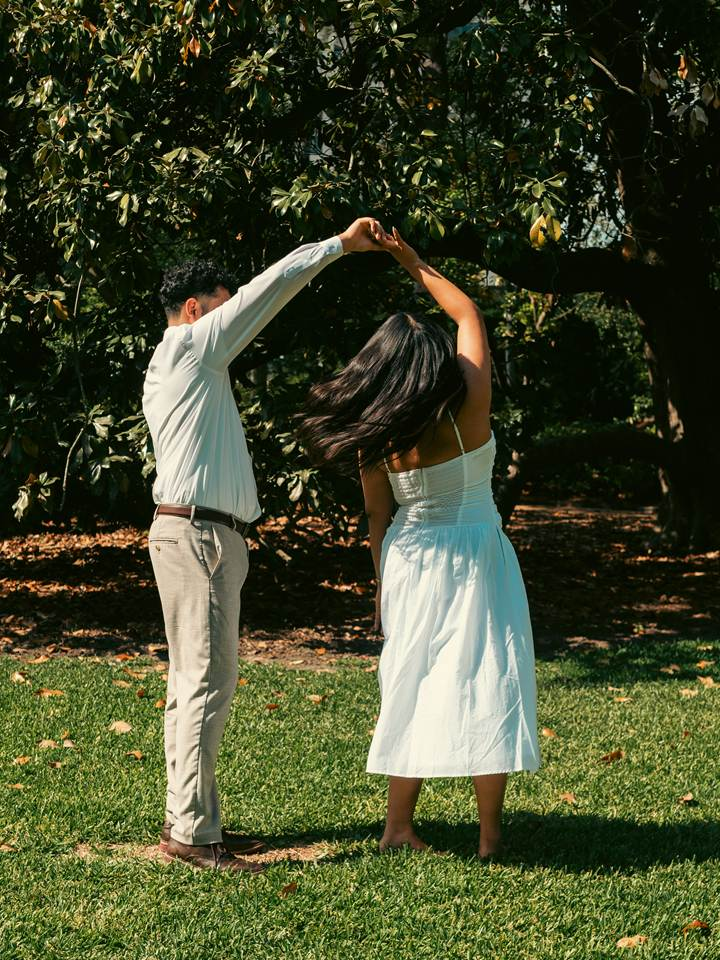
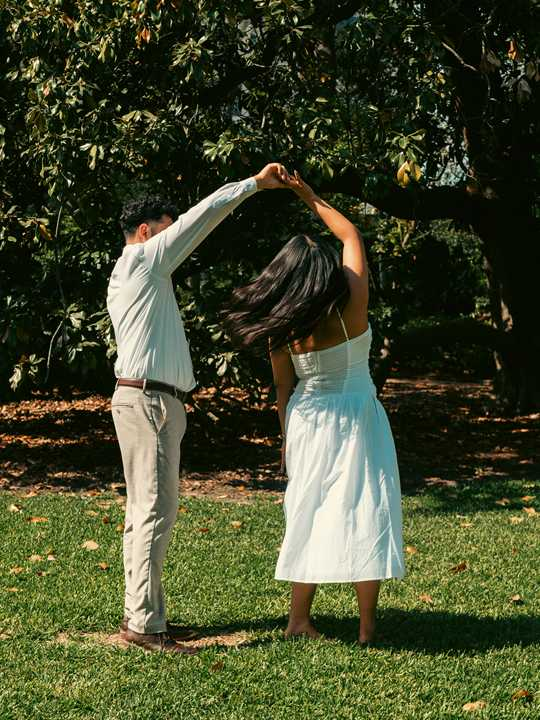
Add files via upload

diff --git a/index.html b/index.html
@@ -575,7 +575,7 @@
     main > .band { display: none; }
 
     .gr { position: relative; background: var(--ink-deep); color: var(--cream); padding: clamp(72px, 11vw, 120px) 0; }
-    .js .gr { height: 180vh; height: 180svh; padding: 0; }
+    .js .gr { height: 260vh; height: 260svh; padding: 0; }
     .gr-stage {
       display: flex; flex-direction: column; align-items: center; justify-content: center; gap: 22px;
       padding: 20px 16px; text-align: center;
@@ -1186,15 +1186,15 @@
         <div class="gr-fig">
           <div class="gr-frame">
             <div class="gr-print" role="img" aria-label="Edgar twirls Jasmin on the lawn" data-es-label="Edgar gira a Jasmin sobre el pasto">
-              <img src="giro-1.jpg" width="720" height="960" alt="" loading="lazy" decoding="async" />
-              <img data-src="giro-2.jpg" width="720" height="960" alt="" decoding="async" />
-              <img data-src="giro-3.jpg" width="720" height="960" alt="" decoding="async" />
-              <img data-src="giro-4.jpg" width="720" height="960" alt="" decoding="async" />
-              <img data-src="giro-5.jpg" width="720" height="960" alt="" decoding="async" />
-              <img data-src="giro-6.jpg" width="720" height="960" alt="" decoding="async" />
-              <img data-src="giro-7.jpg" width="720" height="960" alt="" decoding="async" />
-              <img data-src="giro-8.jpg" width="720" height="960" alt="" decoding="async" />
-              <img data-src="giro-9.jpg" width="720" height="960" alt="" decoding="async" />
+              <img src="giro-1.jpg" width="540" height="720" alt="" loading="lazy" decoding="async" />
+              <img data-src="giro-2.jpg" width="540" height="720" alt="" decoding="async" />
+              <img data-src="giro-3.jpg" width="540" height="720" alt="" decoding="async" />
+              <img data-src="giro-4.jpg" width="540" height="720" alt="" decoding="async" />
+              <img data-src="giro-5.jpg" width="540" height="720" alt="" decoding="async" />
+              <img data-src="giro-6.jpg" width="540" height="720" alt="" decoding="async" />
+              <img data-src="giro-7.jpg" width="540" height="720" alt="" decoding="async" />
+              <img data-src="giro-8.jpg" width="540" height="720" alt="" decoding="async" />
+              <img data-src="giro-9.jpg" width="540" height="720" alt="" decoding="async" />
             </div>
             <svg class="gr-orn" aria-hidden="true"><use href="#heart"/></svg>
           </div>
@@ -1836,6 +1836,14 @@
         easeTimer = setTimeout(() => print.classList.remove("gr-ease"), 340);
       }
 
+      let tgt = 0, chasing = false;
+      function chase() {
+        const d = tgt - atF;
+        if (playing || Math.abs(d) < 0.02) { if (!playing) paint(tgt); chasing = false; return; }
+        paint(atF + Math.sign(d) * Math.min(Math.abs(d), Math.max(0.14, Math.abs(d) * 0.2)));
+        requestAnimationFrame(chase);
+      }
+
       function update() {
         queued = false;
         if (!inView || playing || !live()) return;
@@ -1843,7 +1851,9 @@
         setCaption(p > 0.8);
         if (!ready) return;
         if (soft) { soft = false; ease(); }
-        paint(p * (frames.length - 1));
+        // Glide toward the scroll position instead of jumping, so even a fast flick plays the whole twirl
+        tgt = p * (frames.length - 1);
+        if (!chasing) { chasing = true; requestAnimationFrame(chase); }
       }
       function schedule() {
         if (!queued) { queued = true; requestAnimationFrame(update); }
@@ -1923,7 +1933,7 @@
         new IntersectionObserver(entries => {
           near = entries[entries.length - 1].isIntersecting;
           if (near) load();
-        }, { rootMargin: "150% 0px" }).observe(sec);
+        }, { rootMargin: "350% 0px" }).observe(sec);
         new IntersectionObserver(entries => {
           inView = entries[entries.length - 1].isIntersecting;
           if (inView) { measure(); schedule(); }
